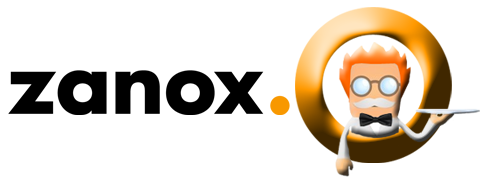
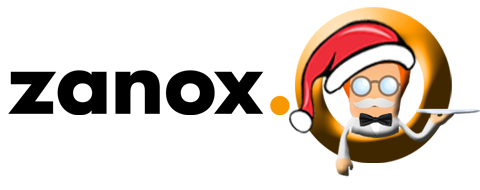
x-mas changes

Changed region(s): [[0.5938, 0.0789, 0.875, 0.7105]]

diff --git a/src/main/webapp/css/all-mobile.css b/src/main/webapp/css/all-mobile.css
@@ -1,7 +1,7 @@
 @media (max-width: 1000px) {
 	#main {width: 100%;}
 	h1{font-size:30px; margin-bottom:7px;  }
-	#header{background-image:url("../img/zanox-app-800x254.jpg"); width:800px;height:254px;background-repeat:no-repeat;}
+	#header{background-image:url("../img/zanox_james.png"); width:800px;height:254px;background-repeat:no-repeat;}
 	#messages{width:580px;}
 	.meeting_form{padding:5px;width:800px;height:40px;font-size:18px;text-align:center;margin:0 auto;}
 	
@@ -9,7 +9,7 @@
 
 @media (max-width: 800px) {   
     body{font-size:24px; line-height: 1.2;}
-	#header{background-image:url("../img/zanox-app-600x191.jpg"); width:600px;height:191px;background-repeat:no-repeat;}
+	#header{background-image:url("../img/zanox_james.png"); width:600px;height:191px;background-repeat:no-repeat;}
     #main {padding: 0px;width:100%;float:left;}
 	h1{font-size:28px; color:#444;}
 	#messages{width:600px;}
@@ -19,7 +19,7 @@
 
 @media (max-width: 600px) {   
     body{font-size:24px; line-height: 1.2;}
-	#header{background-image:url("../img/zanox-app-400x158.png"); width:400px;height:158px;background-repeat:no-repeat;}
+	#header{background-image:url("../img/zanox_james.png"); width:400px;height:158px;background-repeat:no-repeat;}
     #main {padding: 0px;width:100%;float:left;}
 	h1{font-size:28px; color:#444;}
 	#messages{width:600px;}
@@ -31,7 +31,7 @@
 
 @media (max-width: 500px) {   
     body{font-size:24px; line-height: 1.2;}
-	#header{background-image:url("../img/zanox-app-300x118.png"); width:300px;height:118px;background-repeat:no-repeat;}
+	#header{background-image:url("../img/zanox_james_small.png"); width:300px;height:118px;background-repeat:no-repeat;}
     #main {padding: 0px;width:100%;float:left;}
 	h1{font-size:28px; color:#444;}
 	#messages{width:300px;}

diff --git a/src/main/webapp/pages/jamesCloud.html b/src/main/webapp/pages/jamesCloud.html
@@ -77,7 +77,7 @@
 
 		</script>
 		
-		<div id="logo" style="width:900px;margin:0 auto;"><img border="0" src="zanox-app-900x180.png" /></div>
+		<div id="logo" style="width:480px;margin:0;"><img border="0" src="zanox_james.png" /></div>
 		<div id="tagcloud" style="width:80%;margin:0 auto;height:auto;font-family:Verdana;"></div> 
     </body>
 </html>

diff --git a/src/main/webapp/css/all.css b/src/main/webapp/css/all.css
@@ -75,11 +75,11 @@ h1{
 	text-align:center;
 }
 #header{
-    background-image:url("../img/zanox-app-950x302.jpg");
-    width:950px;
-    height:302px;
+    background-image:url("../img/zanox_james.png");
+    width:400px;
+    height:158px;
 	background-repeat:no-repeat;
-    margin: 0 auto;
+    margin: 0;
 }
 
 #content{

diff --git a/src/main/webapp/views/question.html b/src/main/webapp/views/question.html
@@ -6,9 +6,5 @@
 	<div id="bell_btn"><input type="image" src="http://labs.zanox.com:8080/james/img/senden_btn.jpg" ng-disabled="button"></div>
 </div>
 </form>
-<div id="back_btn" ng-show="showBackButton">
-	<a ng-click="back()">
-	<img border="0" src="http://labs.zanox.com:8080/james/img/back_btn.png" /></a>
-	
-</div>
+
 
